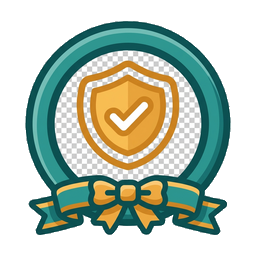
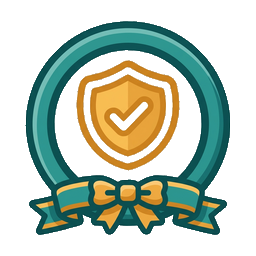
アイコン視認性の総点検・修正（他ページ）
・信頼バッジ6点を再処理：焼き込み背景（濃いグレー/チェッカー）を除去。
  外側背景は透過、メダル内側のチェッカーは白で塗り、白地でくっきり表示
  （badge-support24 の濃色背景残りを解消）
・ダウンロードセンターのカードアイコン(dc-ico)を絵文字→画像アイコンに
  （販促=pic-promo/script/academy、書類=dic-contract/inin/joto/kaijo/seisan）
・.dc-ico img のCSSを追加
・全ページの card-ico 画像は透過済み ic-* に統一済みであることを確認

Claude-Session: https://claude.ai/code/session_01HRUW3KN2Qyk7Mk95v6wsgw

Changed region(s): [[0.2188, 0.1875, 0.7812, 0.7188], [0.875, 0.4688, 0.9062, 0.5], [0.0938, 0.4688, 0.125, 0.5]]

diff --git a/site/partner-downloads.html b/site/partner-downloads.html
@@ -49,17 +49,17 @@
       <h2><img class="sec-ico" src="assets/img/buymo/pic-promo.png?v=1" alt="" width="26" height="26">販促ツール</h2>
       <div class="dc-cards">
         <a class="dc-card" href="partner-promo.html">
-          <span class="dc-ico">🖼</span>
+          <span class="dc-ico"><img src="assets/img/buymo/pic-promo.png?v=1" alt="" width="34" height="34" loading="lazy"></span>
           <span class="dc-card-t">販促ツール一覧</span>
           <span class="dc-card-d">チラシ・POP・SNS素材など、集客に使える販促物をまとめています。</span>
         </a>
         <a class="dc-card" href="partner-scripts.html">
-          <span class="dc-ico">💬</span>
+          <span class="dc-ico"><img src="assets/img/buymo/pic-script.png?v=1" alt="" width="34" height="34" loading="lazy"></span>
           <span class="dc-card-t">トークスクリプト集</span>
           <span class="dc-card-d">問い合わせ対応・査定・クロージングの話法をダウンロードできます。</span>
         </a>
         <a class="dc-card" href="partner-academy.html">
-          <span class="dc-ico">🎓</span>
+          <span class="dc-ico"><img src="assets/img/buymo/pic-academy.png?v=1" alt="" width="34" height="34" loading="lazy"></span>
           <span class="dc-card-t">アカデミー（教材・PDF）</span>
           <span class="dc-card-d">研修動画・買取知識・PDF資料をダウンロードできます。</span>
         </a>
@@ -71,11 +71,11 @@
       <h2><img class="sec-ico" src="assets/img/buymo/pic-pdf.png?v=1" alt="" width="26" height="26">買取に必要な書類（発行・ダウンロード）</h2>
       <p class="dc-note">案件情報を選んで自動印字、または空欄のままA4で印刷・PDF保存できます。下記から「書類発行」ページを開いてご利用ください。</p>
       <div class="dc-cards">
-        <a class="dc-card" href="partner-documents.html"><span class="dc-ico">📝</span><span class="dc-card-t">売買契約書（買取用）</span><span class="dc-card-d">車両買取の売買契約書。甲乙各1通のA4書式。</span></a>
-        <a class="dc-card" href="partner-documents.html"><span class="dc-ico">🖊</span><span class="dc-card-t">委任状</span><span class="dc-card-d">名義変更・抹消などの手続き委任用。</span></a>
-        <a class="dc-card" href="partner-documents.html"><span class="dc-ico">📑</span><span class="dc-card-t">譲渡証明書</span><span class="dc-card-d">車両の譲渡を証明する書類。</span></a>
-        <a class="dc-card" href="partner-documents.html"><span class="dc-ico">🔓</span><span class="dc-card-t">所有権解除依頼書</span><span class="dc-card-d">ローン完済車の所有権解除用。</span></a>
-        <a class="dc-card" href="partner-documents.html"><span class="dc-ico">🧮</span><span class="dc-card-t">清算書</span><span class="dc-card-d">オークション／直販の清算明細。</span></a>
+        <a class="dc-card" href="partner-documents.html"><span class="dc-ico"><img src="assets/img/buymo/dic-contract.png?v=1" alt="" width="34" height="34" loading="lazy"></span><span class="dc-card-t">売買契約書（買取用）</span><span class="dc-card-d">車両買取の売買契約書。甲乙各1通のA4書式。</span></a>
+        <a class="dc-card" href="partner-documents.html"><span class="dc-ico"><img src="assets/img/buymo/dic-inin.png?v=1" alt="" width="34" height="34" loading="lazy"></span><span class="dc-card-t">委任状</span><span class="dc-card-d">名義変更・抹消などの手続き委任用。</span></a>
+        <a class="dc-card" href="partner-documents.html"><span class="dc-ico"><img src="assets/img/buymo/dic-joto.png?v=1" alt="" width="34" height="34" loading="lazy"></span><span class="dc-card-t">譲渡証明書</span><span class="dc-card-d">車両の譲渡を証明する書類。</span></a>
+        <a class="dc-card" href="partner-documents.html"><span class="dc-ico"><img src="assets/img/buymo/dic-kaijo.png?v=1" alt="" width="34" height="34" loading="lazy"></span><span class="dc-card-t">所有権解除依頼書</span><span class="dc-card-d">ローン完済車の所有権解除用。</span></a>
+        <a class="dc-card" href="partner-documents.html"><span class="dc-ico"><img src="assets/img/buymo/dic-seisan.png?v=1" alt="" width="34" height="34" loading="lazy"></span><span class="dc-card-t">清算書</span><span class="dc-card-d">オークション／直販の清算明細。</span></a>
       </div>
     </section>
   </div>

diff --git a/site/assets/css/board.css b/site/assets/css/board.css
@@ -399,3 +399,7 @@
 
 /* ポータル見出しアイコン（絵文字→画像） */
 .sec-ico{width:26px;height:26px;object-fit:contain;vertical-align:-7px;margin-right:8px;flex:0 0 auto;}
+
+/* ダウンロードカードのアイコンを画像対応 */
+.dc-ico img{width:34px;height:34px;object-fit:contain;vertical-align:middle;}
+.dc-ico:has(img){font-size:0;}
